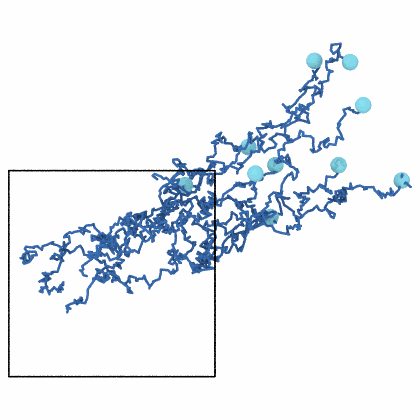
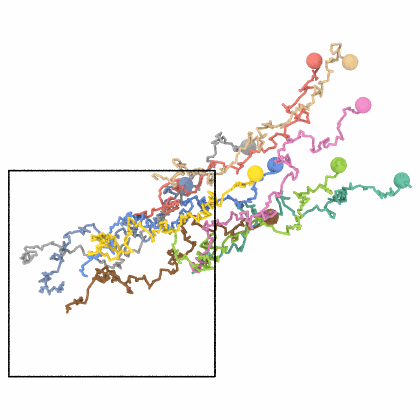
Trajectory lines and center-of-mass drift: each path in the color of its atom

Changed region(s): [[0.031, 0.0929, 0.9905, 0.7429]]

diff --git a/docs/user-guide/analysis/trajectory-lines.md b/docs/user-guide/analysis/trajectory-lines.md
@@ -8,7 +8,7 @@ trajectory lines does; `render(lines=...)` draws the paths.
 import numpy as np
 import mdapy as mp
 from mdapy.analysis import trajectory_lines
-from mdapy.visualization import render
+from mdapy.visualization import colormap, render
 
 # twelve atoms that wander through a periodic box for 300 frames
 rng = np.random.default_rng(1)
@@ -21,13 +21,15 @@ frames = [
 
 paths = trajectory_lines(frames)  # (12, 300, 3), unwrapped
 some = trajectory_lines(frames, [0, 3, 5])  # (3, 300, 3)
+colors = colormap(np.arange(12), "labels")  # one for each atom and its path
 render(
     frames[-1],
     "images/trajectory-lines.png",
+    color=colors,
     radius=0.8,
     lines=paths,
     line_radius=0.12,
-    line_color="#3b6fb6",
+    line_color=colors,
     wrap_lines=True,
     view=(-1.0, -0.7, -0.5),
     width=600,
@@ -37,9 +39,9 @@ render(
 
 ![Paths of wandering atoms](images/trajectory-lines.png)
 
-*The paths of twelve atoms over 300 frames, cut at the faces of the
-periodic box and moved in through the opposite faces, and the atoms where
-they end.*
+*The paths of twelve atoms over 300 frames, each in the color of its atom, cut at
+the faces of the periodic box and moved in through the opposite faces, and the
+atoms where they end.*
 
 ## Parameters
 
@@ -58,7 +60,7 @@ image only, so that its lines of atoms that move more than half the box
 between frames differ.
 
 `render` draws polylines with `lines`, `line_radius` (Å, 0.1 as OVITO's
-line width of 0.2), `line_color` and `wrap_lines`, which cuts the lines at
+line width of 0.2), `line_color`, one or one for each line, and `wrap_lines`, which cuts the lines at
 the periodic faces of the box and moves the parts outside in through the
 opposite faces; see [Rendering](../visualization/rendering.md#parameters).
 

diff --git a/docs/user-guide/analysis/drift.md b/docs/user-guide/analysis/drift.md
@@ -11,7 +11,7 @@ import numpy as np
 import mdapy as mp
 from mdapy.analysis import trajectory_lines
 from mdapy.transform import remove_drift
-from mdapy.visualization import render
+from mdapy.visualization import colormap, render
 
 # ten atoms that wander and drift together through a periodic box
 rng = np.random.default_rng(2)
@@ -21,15 +21,17 @@ walk = rng.random((10, 3)) * 20 + np.cumsum(steps, axis=0)
 frames = [mp.System(box.wrap(x)[0], box, elements="Ar") for x in walk]
 
 steady = remove_drift(frames)  # the frames moved, read when they are used
+colors = colormap(np.arange(10), "labels")  # one for each atom and its path
 for name, these in (("drift", frames), ("steady", steady)):
     paths = trajectory_lines(these)  # unwrapped, (10, 200, 3)
     render(
         these[-1].with_columns(positions=paths[:, -1]),
         f"images/{name}.png",
+        color=colors,
         radius=0.8,
         lines=paths,
         line_radius=0.12,
-        line_color="#3b6fb6",
+        line_color=colors,
         view=(0.0, 0.0, -1.0),
         width=420,
         height=420,
@@ -39,8 +41,8 @@ for name, these in (("drift", frames), ("steady", steady)):
 ![Paths with the drift](images/drift.png){ width="49%" }
 ![Paths without the drift](images/steady.png){ width="49%" }
 
-*The unwrapped paths of ten atoms over 200 frames, seen along the z axis,
-and the atoms where they end: with the drift of the whole system toward the
+*The unwrapped paths of ten atoms over 200 frames, seen along the z axis, each
+in the color of its atom, and the atoms where they end: with the drift of the whole system toward the
 upper right (left), and with the center of mass kept where it is in the
 first frame (right).*
 
